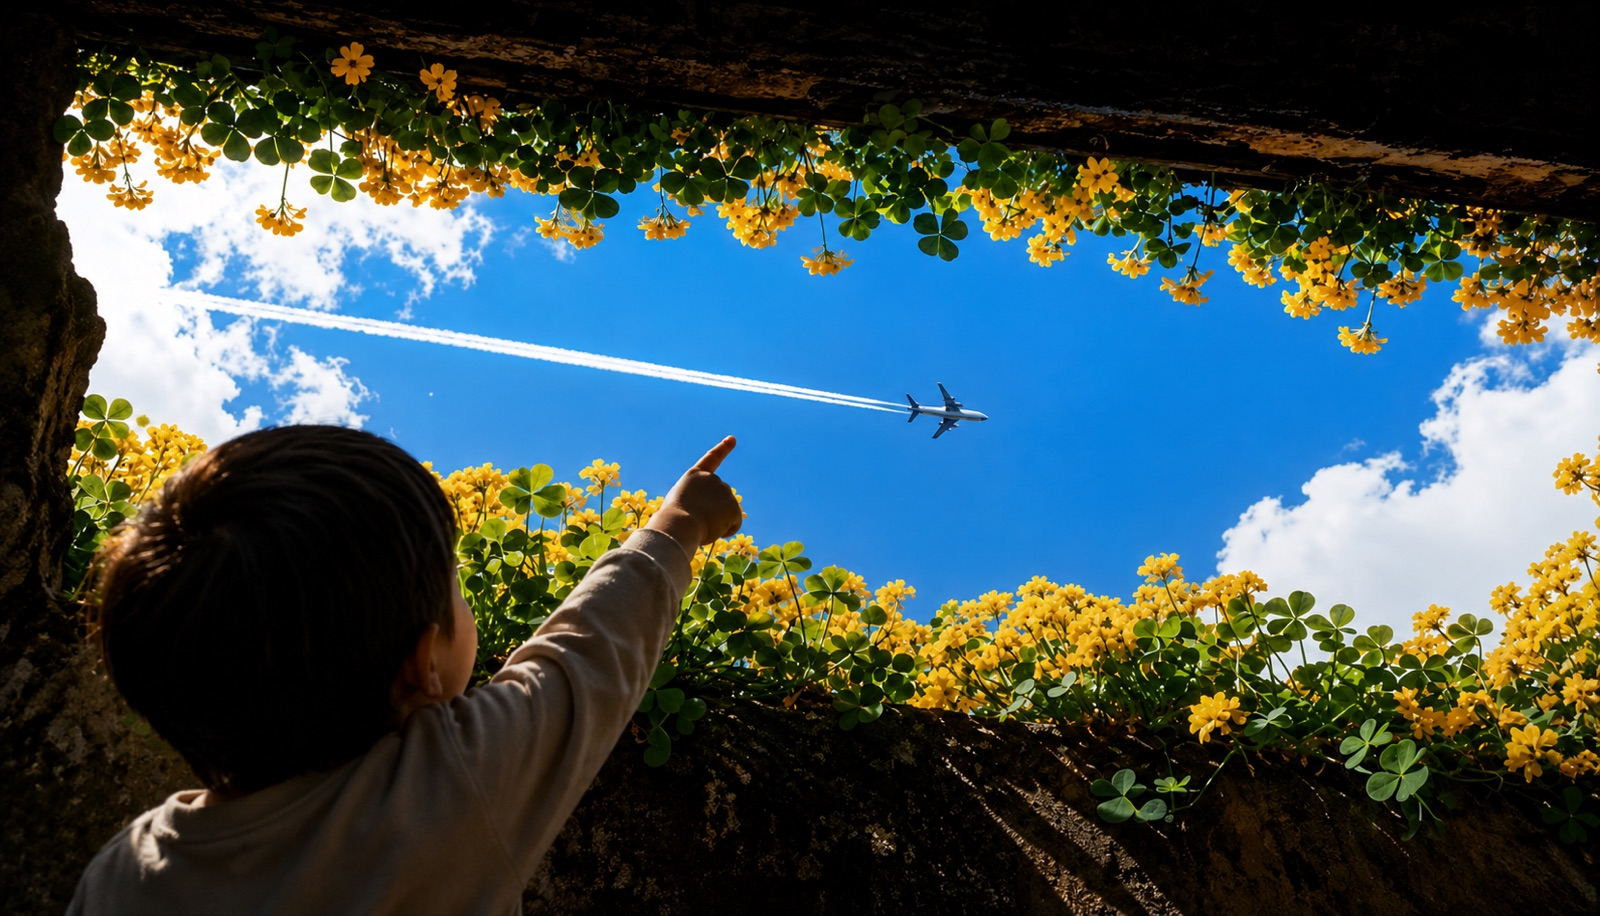
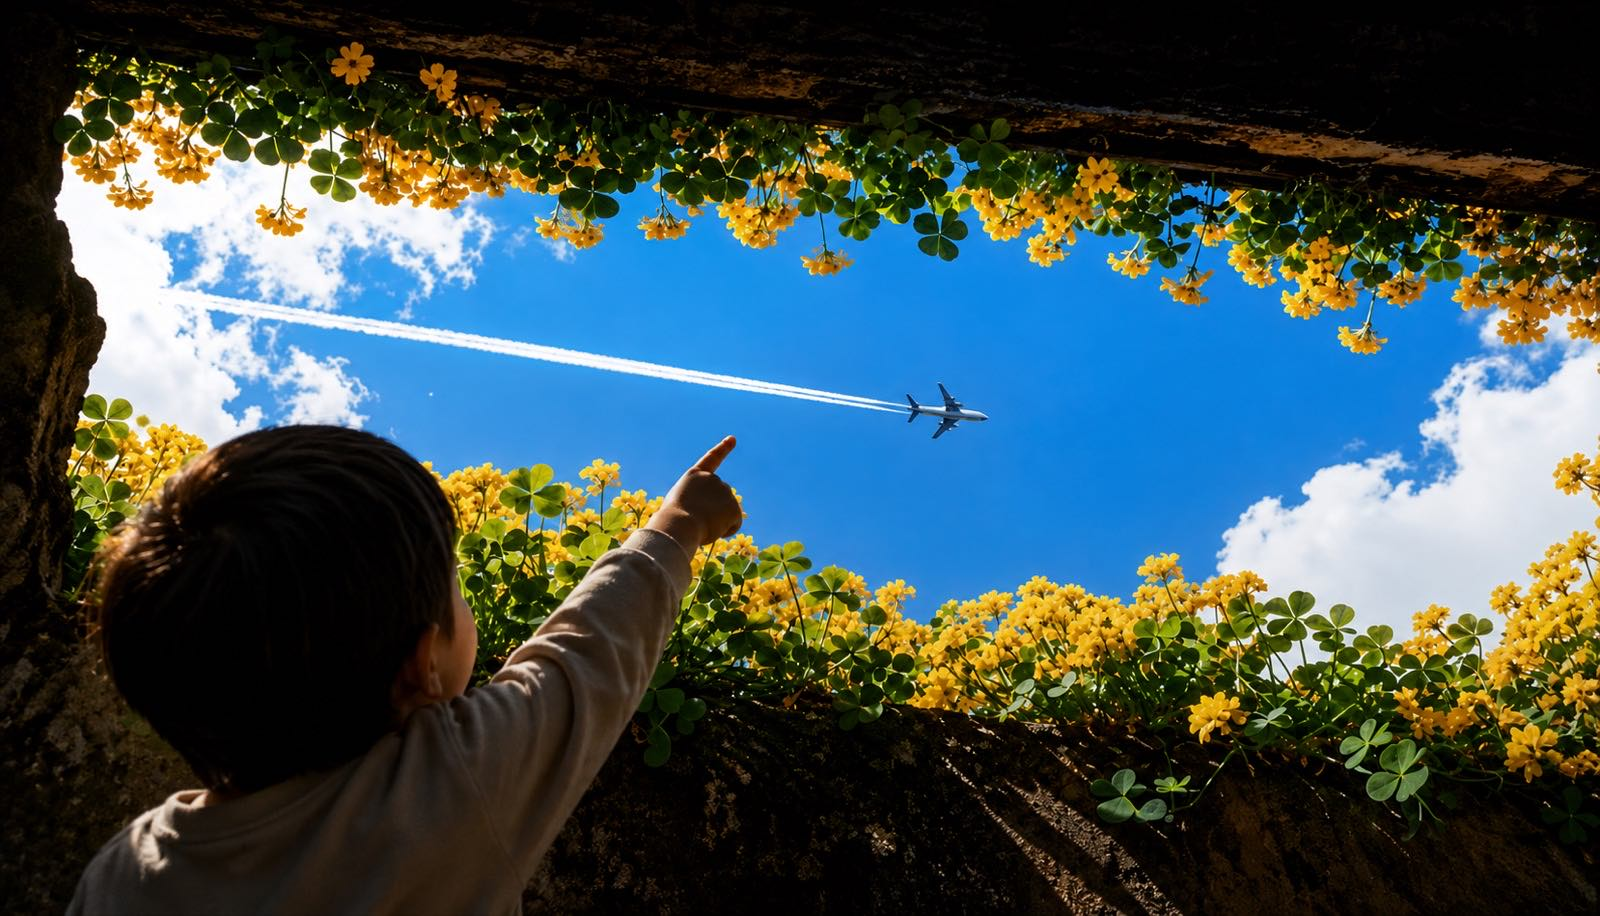
perf: recompress hero photos (1.6MB -> 742KB)
Single-pass JPEG q48 at original dimensions — visually clean on the
dark-sky gradients. Same filenames, no code changes.

diff --git a/task.md b/task.md
@@ -9,7 +9,7 @@
   - [x] Perf fix: defer planet textures (~6MB) to solar-scale entry
   - [x] Perf fix: delete unreferenced logo-full.svg (505KB)
   - [x] Perf fix: React.lazy route pages — 9 pages split (index 107→92KB gz, css 42→34KB gz); DeepSpacePanel kept eager (always-rendered fade animation)
-  - [ ] Perf fix: hero JPGs → WebP (~1MB saved)
+  - [x] Perf fix: hero JPGs recompressed q48 same dims (1.6MB→742KB; WebP skipped — no encoder on box, JPEG kept filenames/code untouched)
 - [ ] Globe interaction + zoom in/out more fluid
 - [x] Space feed sometimes opens on its own — fixed (removed 3s auto-re-expand)
 - [x] Space feed opens after closing aircraft card — fixed (overlay now hides via visibility, not display:none; display toggle restarted the feedSlideIn entry animation, flashing the collapsed feed open)
